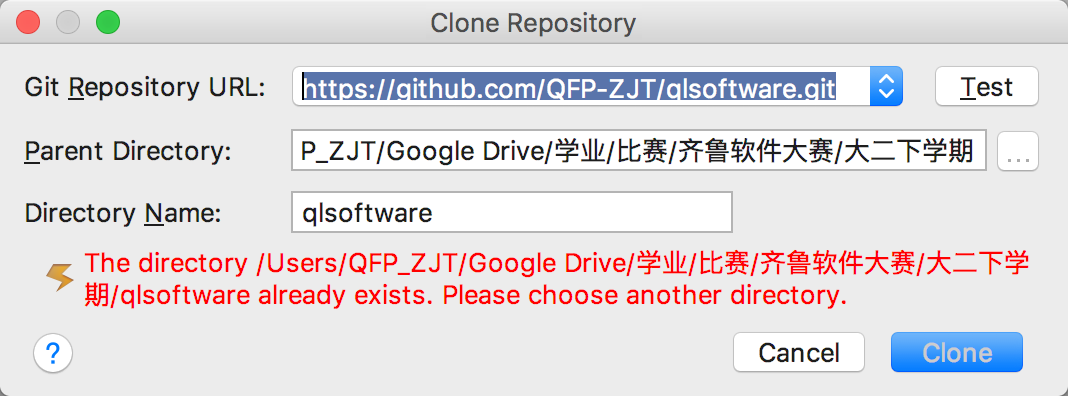
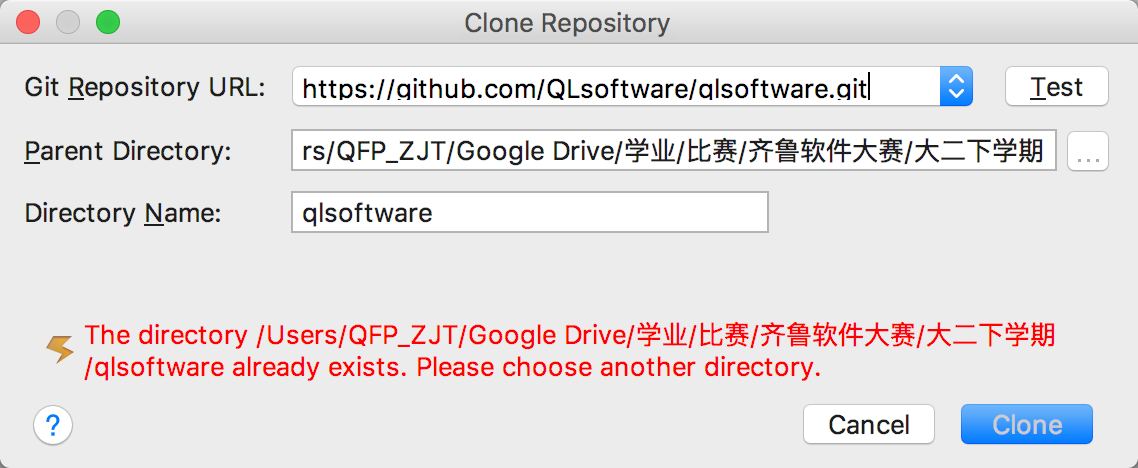
Site updated: 2017-07-12 21:26:43

diff --git a/2017/07/12/PhpStorm关联GitHub项目/index.html b/2017/07/12/PhpStorm关联GitHub项目/index.html
@@ -109,7 +109,7 @@
 <meta property="og:image" content="http://yoursite.com/images/GitHub选择框.jpg">
 <meta property="og:image" content="http://yoursite.com/images/GitHub提交选项.jpg">
 <meta property="og:image" content="http://yoursite.com/images/提交前的准备.jpg">
-<meta property="og:updated_time" content="2017-07-12T07:50:38.000Z">
+<meta property="og:updated_time" content="2017-07-12T13:26:31.000Z">
 <meta name="twitter:card" content="summary">
 <meta name="twitter:title" content="PhpStorm关联GitHub项目">
 <meta name="twitter:description" content="仅为我们的内部使用 零、管理员创建GitHub工程，并实现向服务器的同步工作(管理员已完成)初始化 在GitHub中创建一个repositorie 获取项目的URL地址 在服务器的网站根目录下创建git仓库git init 连接远程的刚刚建好的GitHub仓库git remote add origin 项目的URL常用的操作命令 git remote -v查看连接的远程仓库 git push or">
@@ -395,17 +395,21 @@
 <li><code>git add .</code>将所有文件放进新的本地git仓库中</li>
 <li><code>git commit -m &quot;备注&quot;</code> 将添加的文件提交到仓库<br><a href="http://www.ruanyifeng.com/blog/2015/12/git-cheat-sheet.html" target="_blank" rel="external">“常用 Git 命令清单”</a></li>
 </ul>
-<h2 id="一、从GitHub上下载项目"><a href="#一、从GitHub上下载项目" class="headerlink" title="一、从GitHub上下载项目"></a>一、从GitHub上下载项目</h2><ul>
+<h2 id="一、组队"><a href="#一、组队" class="headerlink" title="一、组队"></a>一、组队</h2><ul>
+<li>在github中创建一个组织</li>
+<li>邀请队员加入，并给队员最高的权限<mark>相信大家啊</mark></li>
+</ul>
+<h2 id="二、从GitHub上下载项目"><a href="#二、从GitHub上下载项目" class="headerlink" title="二、从GitHub上下载项目"></a>二、从GitHub上下载项目</h2><ul>
 <li>在PhpStorm中找到<code>/VCS/checkout from version control/Github</code>选项<img src="/images/找到github关联选项.jpg" alt=""></li>
 </ul>
 <ul>
-<li>在弹出的文本框中的<code>Git Repository URL</code>中填入<code>https://github.com/QFP-ZJT/qlsoftware.git</code>第二行选择存放于本地的哪个目录下，第三行为项目的名称，我们统一称为<code>qlsoftware</code>就可以了<img src="/images/GitHub选择框.jpg" alt=""></li>
+<li>在弹出的文本框中的<code>Git Repository URL</code>中填入<code>https://github.com/QLsoftware/qlsoftware/</code>第二行选择存放于本地的哪个目录下，第三行为项目的名称，我们统一称为<code>qlsoftware</code>就可以了<img src="/images/GitHub选择框.jpg" alt=""></li>
 <li>点击clone即可将项目下载到本地</li>
 </ul>
 <p><strong>项目已经初始化，请以Github上的作为标准</strong><br></p>
-<h2 id="二、提交你的更改"><a href="#二、提交你的更改" class="headerlink" title="二、提交你的更改"></a>二、提交你的更改</h2><ul>
+<h2 id="三、提交你的更改"><a href="#三、提交你的更改" class="headerlink" title="三、提交你的更改"></a>三、提交你的更改</h2><ul>
 <li>在PhpStorm中找到/VCS/Git/commit file<img src="/images/GitHub提交选项.jpg" alt=""></li>
-<li><img src="/images/提交前的准备.jpg" alt=""><br><strong>标号1</strong>为你所做出的更改的内容<br><strong>标号2</strong>为填写你所更改的原因<mark><strong>大家一定要填写，方便管理需要备注上自己的姓名，否则查出来杀无赦</strong></mark></li>
+<li><img src="/images/提交前的准备.jpg" alt=""><br><strong>标号1</strong>为你所做出的更改的内容<br><strong>标号2</strong>为填写你所更改的原因<mark><strong>大家一定要填写，方便管理需要备注上自己的姓名，否则查出来杀无赦</strong></mark><h2 id="三、更新你的代码"><a href="#三、更新你的代码" class="headerlink" title="三、更新你的代码"></a>三、更新你的代码</h2></li>
 </ul>
 
       
@@ -591,7 +595,7 @@
             
 
             
-              <div class="post-toc-content"><ol class="nav"><li class="nav-item nav-level-2"><a class="nav-link" href="#零、管理员创建GitHub工程，并实现向服务器的同步工作-管理员已完成"><span class="nav-number">1.</span> <span class="nav-text">零、管理员创建GitHub工程，并实现向服务器的同步工作(管理员已完成)</span></a><ol class="nav-child"><li class="nav-item nav-level-3"><a class="nav-link" href="#初始化"><span class="nav-number">1.1.</span> <span class="nav-text">初始化</span></a></li><li class="nav-item nav-level-3"><a class="nav-link" href="#常用的操作命令"><span class="nav-number">1.2.</span> <span class="nav-text">常用的操作命令</span></a></li></ol></li><li class="nav-item nav-level-2"><a class="nav-link" href="#一、从GitHub上下载项目"><span class="nav-number">2.</span> <span class="nav-text">一、从GitHub上下载项目</span></a></li><li class="nav-item nav-level-2"><a class="nav-link" href="#二、提交你的更改"><span class="nav-number">3.</span> <span class="nav-text">二、提交你的更改</span></a></li></ol></div>
+              <div class="post-toc-content"><ol class="nav"><li class="nav-item nav-level-2"><a class="nav-link" href="#零、管理员创建GitHub工程，并实现向服务器的同步工作-管理员已完成"><span class="nav-number">1.</span> <span class="nav-text">零、管理员创建GitHub工程，并实现向服务器的同步工作(管理员已完成)</span></a><ol class="nav-child"><li class="nav-item nav-level-3"><a class="nav-link" href="#初始化"><span class="nav-number">1.1.</span> <span class="nav-text">初始化</span></a></li><li class="nav-item nav-level-3"><a class="nav-link" href="#常用的操作命令"><span class="nav-number">1.2.</span> <span class="nav-text">常用的操作命令</span></a></li></ol></li><li class="nav-item nav-level-2"><a class="nav-link" href="#一、组队"><span class="nav-number">2.</span> <span class="nav-text">一、组队</span></a></li><li class="nav-item nav-level-2"><a class="nav-link" href="#二、从GitHub上下载项目"><span class="nav-number">3.</span> <span class="nav-text">二、从GitHub上下载项目</span></a></li><li class="nav-item nav-level-2"><a class="nav-link" href="#三、提交你的更改"><span class="nav-number">4.</span> <span class="nav-text">三、提交你的更改</span></a></li><li class="nav-item nav-level-2"><a class="nav-link" href="#三、更新你的代码"><span class="nav-number">5.</span> <span class="nav-text">三、更新你的代码</span></a></li></ol></div>
             
 
           </div>

diff --git a/css/main.css b/css/main.css
@@ -1680,7 +1680,7 @@ pre .javascript .function {
   width: 4px;
   height: 4px;
   border-radius: 50%;
-  background: #2b8544;
+  background: #3ff;
 }
 .links-of-blogroll {
   font-size: 13px;
